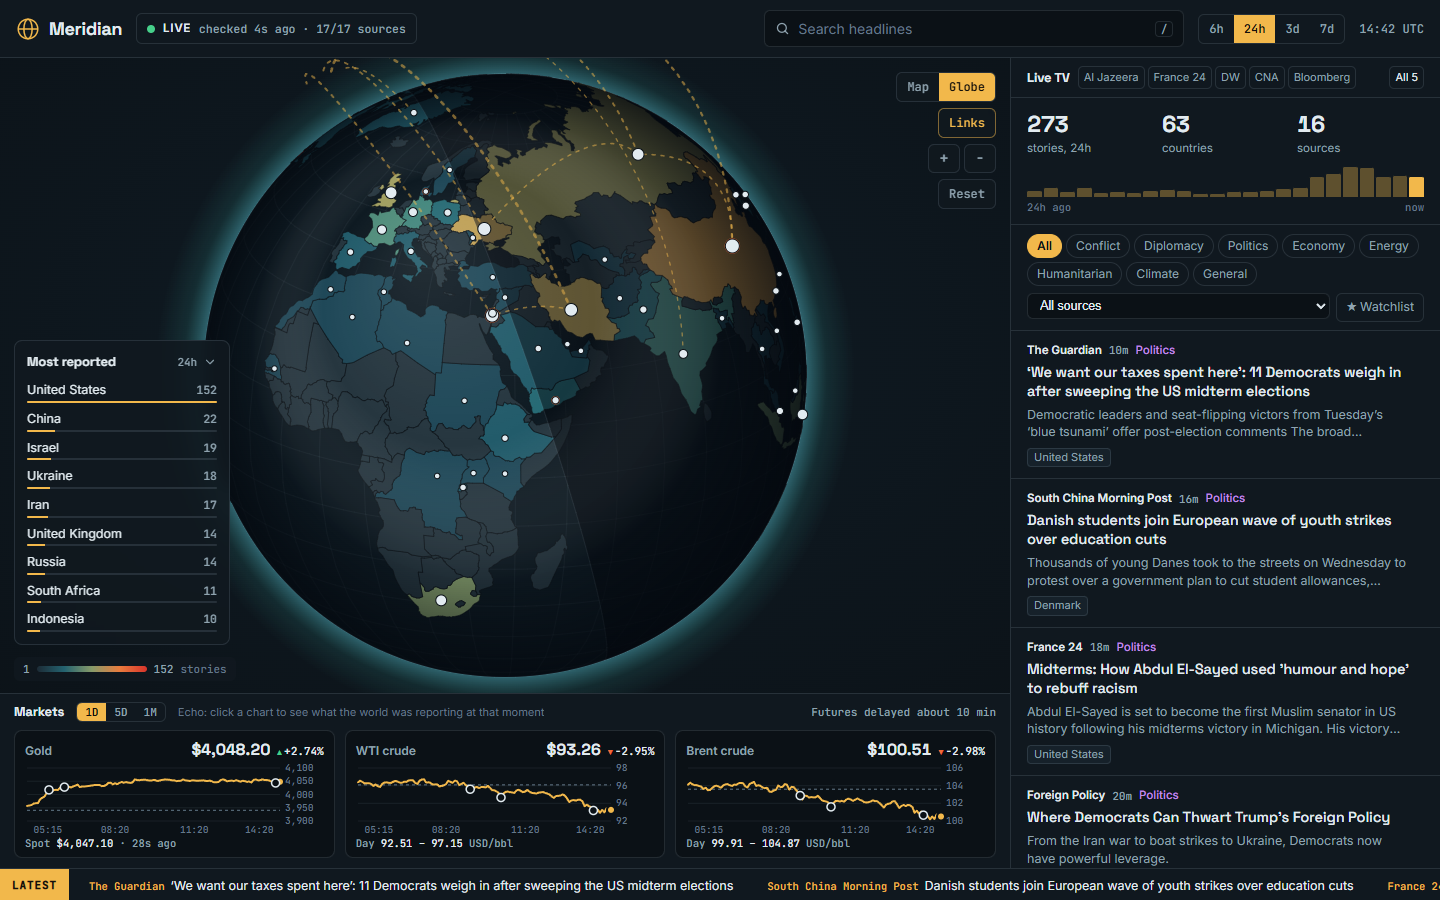
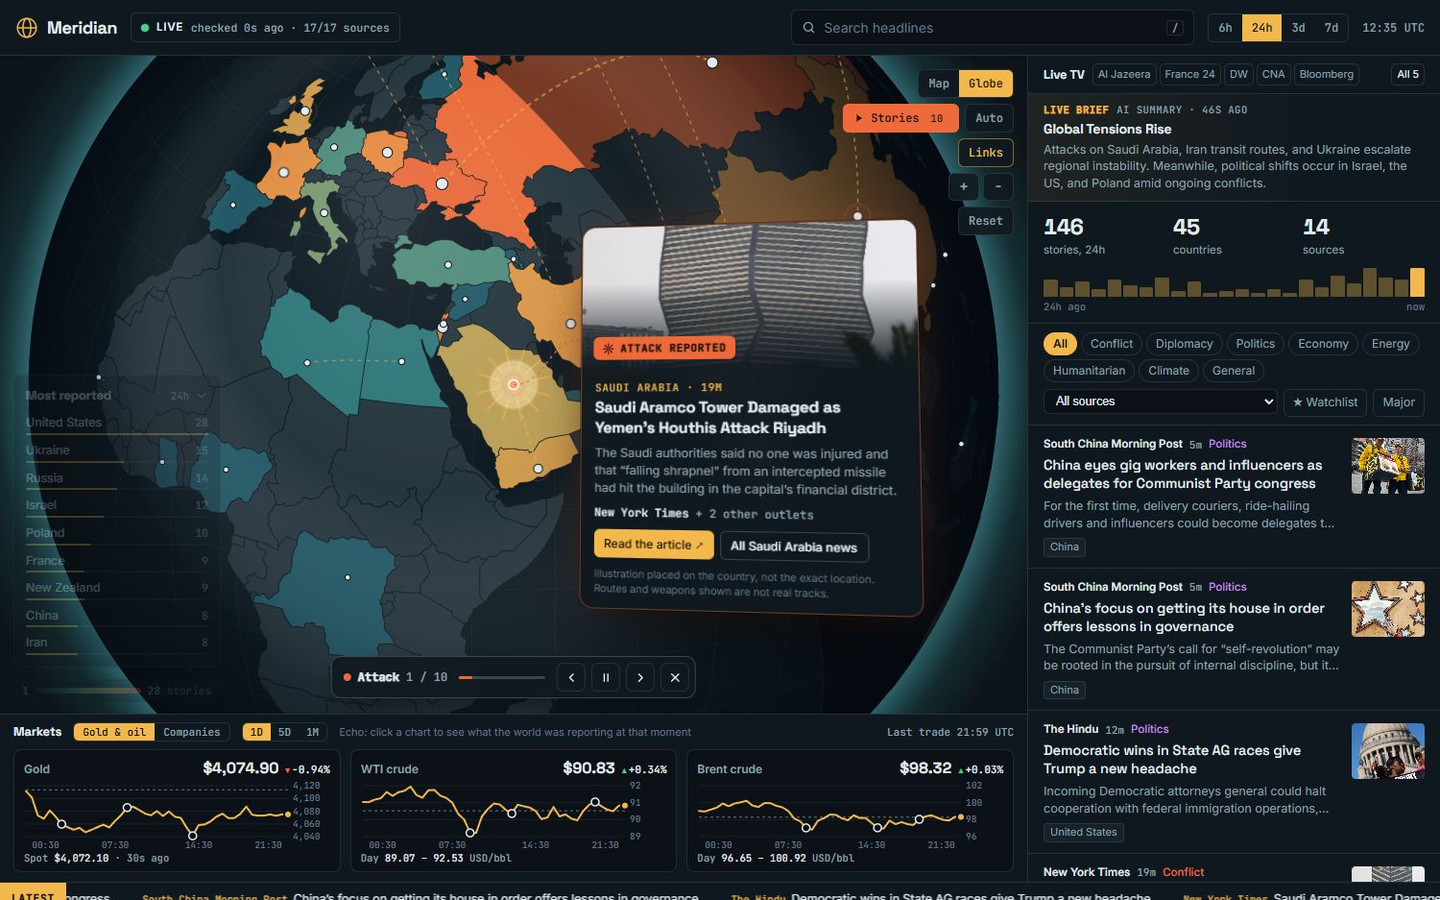
Tools & systems section; Meridian in development

diff --git a/main.js b/main.js
@@ -55,6 +55,23 @@
     return src ? `<iframe src="${esc(safeUrl(src))}" loading="lazy" tabindex="-1" aria-hidden="true" scrolling="no"></iframe>` : '';
   }
 
+  const statusBadge = p => p.status ? `<span class="pstatus mono"><i aria-hidden="true"></i>${esc(p.status)}</span>` : '';
+  function card(p, i, system = false) {
+    return `
+      <a class="pcard reveal${i === 0 ? ' wide' : ''}${system ? ' system' : ''}" style="transition-delay:${(i % 2) * 80}ms" href="#/work/${encodeURIComponent(p.id)}" data-cursor="Voir">
+        <div class="pcard-media proj-media">${media(p)}
+          <span class="pcard-num mono">${String(i + 1).padStart(2, '0')}</span>${statusBadge(p)}
+          ${p.logo ? `<span class="pcard-logo" style="${p.logoBg ? `background:${esc(p.logoBg)}` : ''}"><img src="${esc(safeUrl(p.logo))}" alt="Logo ${esc(p.client || p.title)}" loading="lazy"></span>` : ''}
+        </div>
+        <div class="pcard-body">
+          <div class="pcard-top"><span class="mono">${esc(p.category)}</span><span class="mono">${esc(p.year)}</span></div>
+          <h3>${esc(p.title)}</h3>
+          <p>${esc(p.summary)}</p>
+          <div class="pcard-foot"><ul class="tags">${(p.tags || []).slice(0, 3).map(t => `<li>${esc(t)}</li>`).join('')}</ul><span class="pcard-go" aria-hidden="true">→</span></div>
+        </div>
+      </a>`;
+  }
+
   function render(c) {
     content = c;
     const pr = c.profile || {};
@@ -77,23 +94,18 @@
     $('#talk').innerHTML = talk.repeat(4);
 
     // projects
-    projects = (c.projects || []).filter(p => p.visible !== false);
-    $('#workCount').textContent = `(${String(projects.length).padStart(2, '0')})`;
-    $('#projects').innerHTML = projects.length ? projects.map((p, i) => `
-      <a class="pcard reveal${i === 0 ? ' wide' : ''}" style="transition-delay:${(i % 2) * 80}ms" href="#/work/${encodeURIComponent(p.id)}" data-cursor="Voir">
-        <div class="pcard-media proj-media">${media(p)}
-          <span class="pcard-num mono">${String(i + 1).padStart(2, '0')}</span>
-          ${p.logo ? `<span class="pcard-logo" style="${p.logoBg ? `background:${esc(p.logoBg)}` : ''}"><img src="${esc(safeUrl(p.logo))}" alt="Logo ${esc(p.client || p.title)}" loading="lazy"></span>` : ''}
-        </div>
-        <div class="pcard-body">
-          <div class="pcard-top"><span class="mono">${esc(p.category)}</span><span class="mono">${esc(p.year)}</span></div>
-          <h3>${esc(p.title)}</h3>
-          <p>${esc(p.summary)}</p>
-          <div class="pcard-foot"><ul class="tags">${(p.tags || []).slice(0, 3).map(t => `<li>${esc(t)}</li>`).join('')}</ul><span class="pcard-go" aria-hidden="true">→</span></div>
-        </div>
-      </a>`).join('') : '<p class="wrap">Aucun projet pour le moment.</p>';
+    // websites first, then tools & systems in their own section; the case study browses them in that order
+    const visible = (c.projects || []).filter(p => p.visible !== false);
+    const sites = visible.filter(p => p.kind !== 'system');
+    const systems = visible.filter(p => p.kind === 'system');
+    projects = [...sites, ...systems];
+    $('#workCount').textContent = `(${String(sites.length).padStart(2, '0')})`;
+    $('#sysCount').textContent = `(${String(systems.length).padStart(2, '0')})`;
+    $('#systems').hidden = !systems.length;
+    $('#systemsGrid').innerHTML = systems.map((p, i) => card(p, i, true)).join('');
+    $('#projects').innerHTML = sites.length ? sites.map((p, i) => card(p, i)).join('') : '<p class="wrap">Aucun projet pour le moment.</p>';
     $$('.proj-media').forEach(m => ro.observe(m));
-    $('#projectList').innerHTML = projects.map((p, i) => `
+    $('#projectList').innerHTML = sites.map((p, i) => `
       <a class="irow" href="#/work/${encodeURIComponent(p.id)}" data-cover="${esc(safeUrl(p.cover || ''))}" data-cursor="Voir">
         <span class="n">${String(i + 1).padStart(2, '0')}</span><h3>${esc(p.title)}</h3>
         <span class="c">${esc(p.category)}</span><span class="y">${esc(p.year)}</span><span class="ar">→</span>
@@ -288,7 +300,7 @@
   function openCase(p) {
     const i = projects.indexOf(p), next = projects[(i + 1) % projects.length];
     $('#caseIndex').textContent = `${String(i + 1).padStart(2, '0')} / ${String(projects.length).padStart(2, '0')}`;
-    $('#caseMeta').textContent = [p.category, p.year].filter(Boolean).join(' — ');
+    $('#caseMeta').innerHTML = statusBadge(p) + esc([p.category, p.year].filter(Boolean).join(' — '));
     $('#caseTitle').textContent = p.title;
     $('#caseSummary').textContent = p.summary || '';
     const live = p.external || p.link;

diff --git a/index.html b/index.html
@@ -39,6 +39,7 @@
     </svg></a>
   <nav class="links" id="links">
     <a href="#work" data-roll>Projets</a>
+    <a href="#systems" data-roll>Systèmes</a>
     <a href="#services" data-roll>Services</a>
     <a href="#about" data-roll>À propos</a>
     <a href="#contact" data-roll>Contact</a>
@@ -92,11 +93,23 @@
     <div class="hover-preview" id="hoverPreview" aria-hidden="true"><img alt=""></div>
   </section>
 
+  <!-- tools & systems -->
+  <section class="section" id="systems" hidden>
+    <div class="wrap">
+      <div class="section-head">
+        <span class="mono label">02 — Outils &amp; systèmes</span>
+        <h2 class="big reveal-text">Outils &amp; <em>systèmes</em><sup id="sysCount"></sup></h2>
+        <p class="section-intro">Des plateformes conçues et développées de bout en bout, des données jusqu'à l'interface.</p>
+      </div>
+    </div>
+    <div class="pgrid wrap" id="systemsGrid"></div>
+  </section>
+
   <!-- services -->
   <section class="section" id="services">
     <div class="wrap">
       <div class="section-head">
-        <span class="mono label">02 — Services</span>
+        <span class="mono label">03 — Services</span>
         <h2 class="big reveal-text">Comment je peux <em>aider</em></h2>
       </div>
       <div class="services" id="servicesList"></div>
@@ -107,7 +120,7 @@
   <section class="section" id="process">
     <div class="wrap">
       <div class="section-head">
-        <span class="mono label">03 — Méthode</span>
+        <span class="mono label">04 — Méthode</span>
         <h2 class="big reveal-text">De l'idée au <em>lancement</em></h2>
       </div>
       <div class="process" id="processList"></div>
@@ -118,7 +131,7 @@
   <section class="section" id="about">
     <div class="wrap about">
       <div class="section-head">
-        <span class="mono label">04 — À propos</span>
+        <span class="mono label">05 — À propos</span>
       </div>
       <div class="about-grid">
         <div class="about-photo" id="avatar" data-tilt></div>
@@ -139,7 +152,7 @@
     </a>
     <div class="wrap contact-grid">
       <div>
-        <span class="mono label">05 — Contact</span>
+        <span class="mono label">06 — Contact</span>
         <p class="lead">Un projet en tête&nbsp;? Parlez-m'en — je réponds généralement sous deux jours.</p>
         <button class="email" id="copyEmail" data-cursor="Copier">
           <span id="mail"></span>

diff --git a/styles.css b/styles.css
@@ -481,3 +481,14 @@ em{font-family:var(--serif);font-style:italic;font-weight:400}
 .case-pages button[aria-selected="true"]{background:var(--sky);border-color:var(--sky);color:#0f1a24}
 .ba-handle{background:var(--sky)}
 .ba-handle i{background:var(--sky);color:#0f1a24}
+
+/* ---------- Tools & systems section, status badge ---------- */
+.section-intro{max-width:560px;margin-top:14px;color:var(--muted);font-size:clamp(15px,1.2vw,17px)}
+.pstatus{display:inline-flex;align-items:center;gap:8px;font-size:11.5px;letter-spacing:.08em;text-transform:uppercase;padding:7px 12px 7px 10px;border-radius:99px;background:#f2b33d;color:#1d1503;font-weight:600;white-space:nowrap}
+.pstatus i{width:8px;height:8px;border-radius:50%;background:#1d1503;box-shadow:0 0 0 0 rgba(29,21,3,.5);animation:pstatus 1.8s ease-out infinite}
+@keyframes pstatus{0%{box-shadow:0 0 0 0 rgba(29,21,3,.45)}70%,100%{box-shadow:0 0 0 7px rgba(29,21,3,0)}}
+.pcard-media .pstatus{position:absolute;top:16px;right:16px;z-index:2;box-shadow:0 10px 24px -10px rgba(0,0,0,.6)}
+#caseMeta .pstatus{margin-right:12px;vertical-align:middle}
+.pcard.system{border-color:color-mix(in srgb,var(--accent) 35%,var(--line))}
+#systems .pgrid{margin-top:clamp(28px,4vw,48px)}
+@media (prefers-reduced-motion:reduce){.pstatus i{animation:none}}
